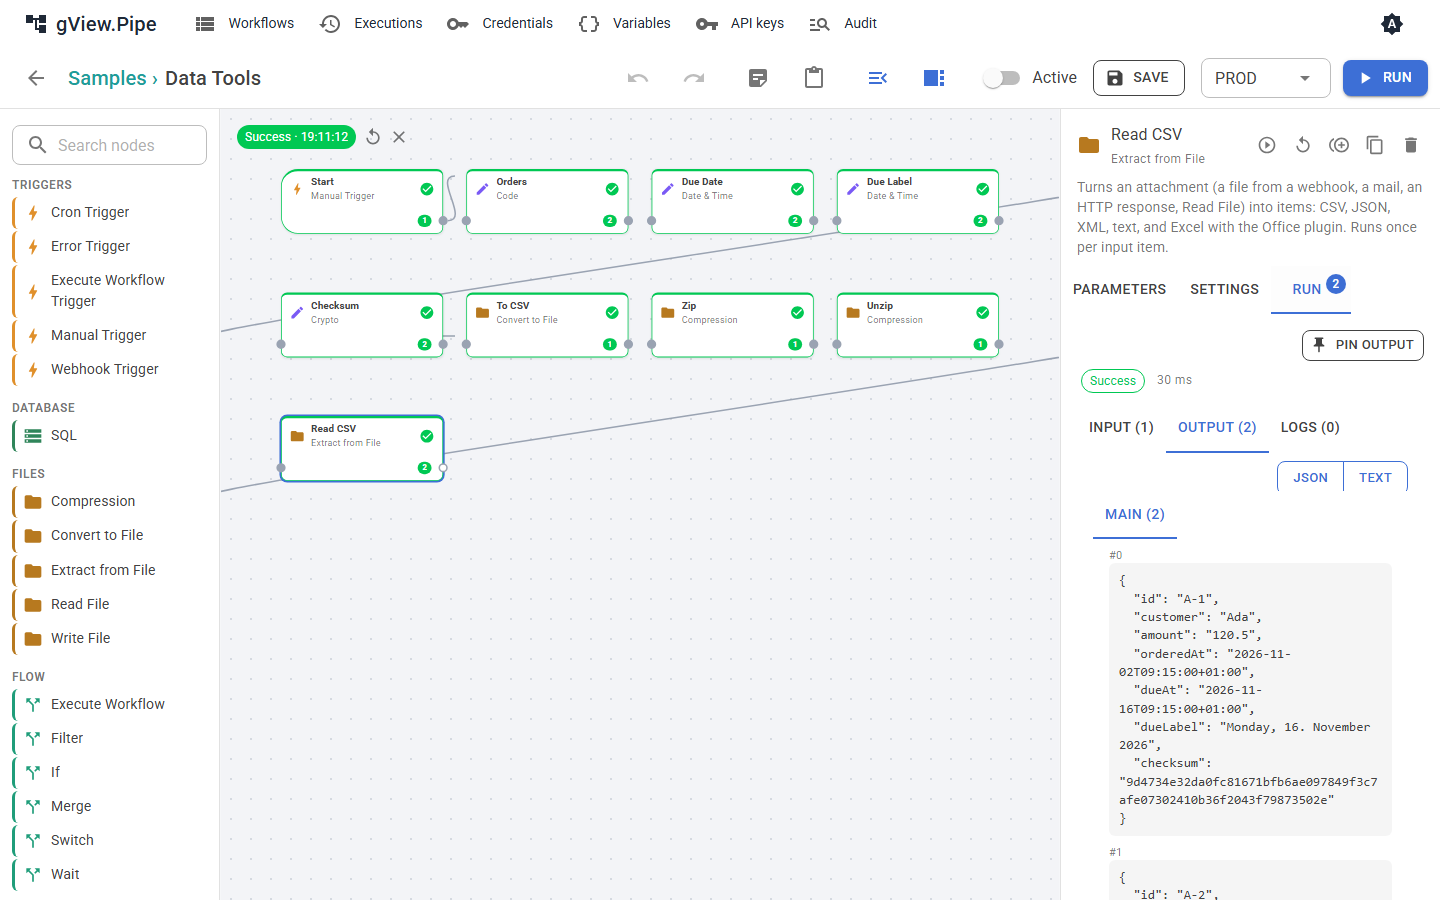
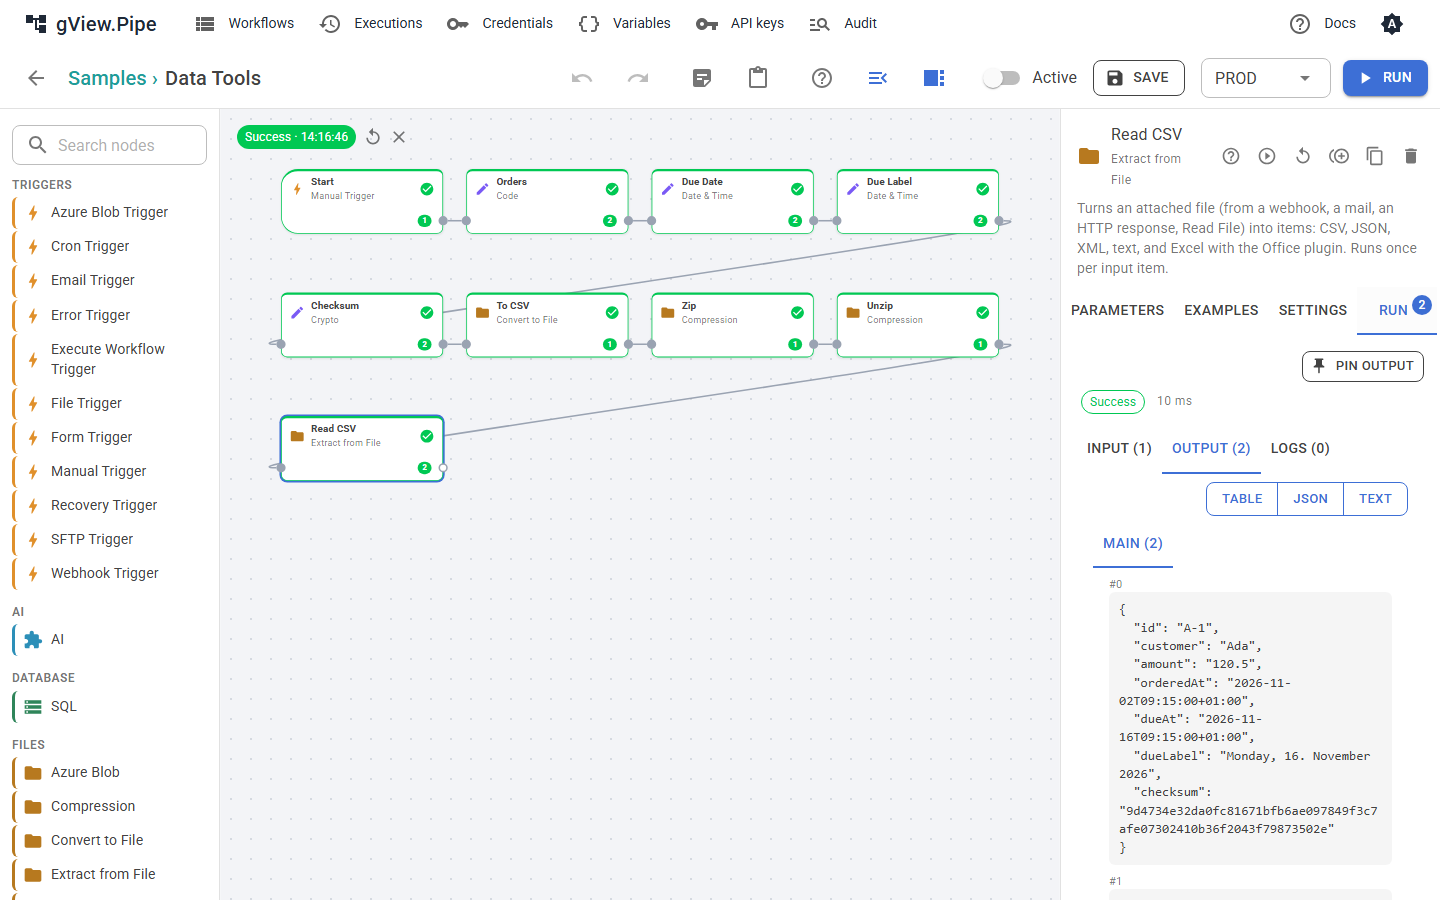
Fit four node tabs into the side panel; update the docs screenshots
The panel tabs get less padding, so Parameters, Examples, Settings and Run
fit without scroll arrows; the button of an example moves below its title
instead of wrapping. The screenshots are taken again, with the new
node-examples.png of the Examples tab.

diff --git a/src/gView.Pipe.Razor/wwwroot/css/gview-pipe.css b/src/gView.Pipe.Razor/wwwroot/css/gview-pipe.css
@@ -459,6 +459,13 @@
     padding: 16px;
 }
 
+/* four tabs fit into the narrow side panel without scroll arrows */
+.gview-pipe-panel-tabs .mud-tab {
+    min-width: 0;
+    padding-left: 10px;
+    padding-right: 10px;
+}
+
 .gview-pipe-output-tabs .mud-tabs-panels {
     padding-top: 8px;
 }
@@ -1083,6 +1090,19 @@ div.gview-pipe-json-tree {
     border-radius: 6px;
     padding: 10px 12px;
     margin-bottom: 12px;
+}
+
+/* title left, button right; in a narrow panel the button moves below the title instead of wrapping its text */
+.gview-pipe-example-head {
+    display: flex;
+    flex-wrap: wrap;
+    align-items: center;
+    justify-content: space-between;
+    gap: 6px 8px;
+}
+
+.gview-pipe-nowrap {
+    white-space: nowrap;
 }
 
 .gview-pipe-example-label {
